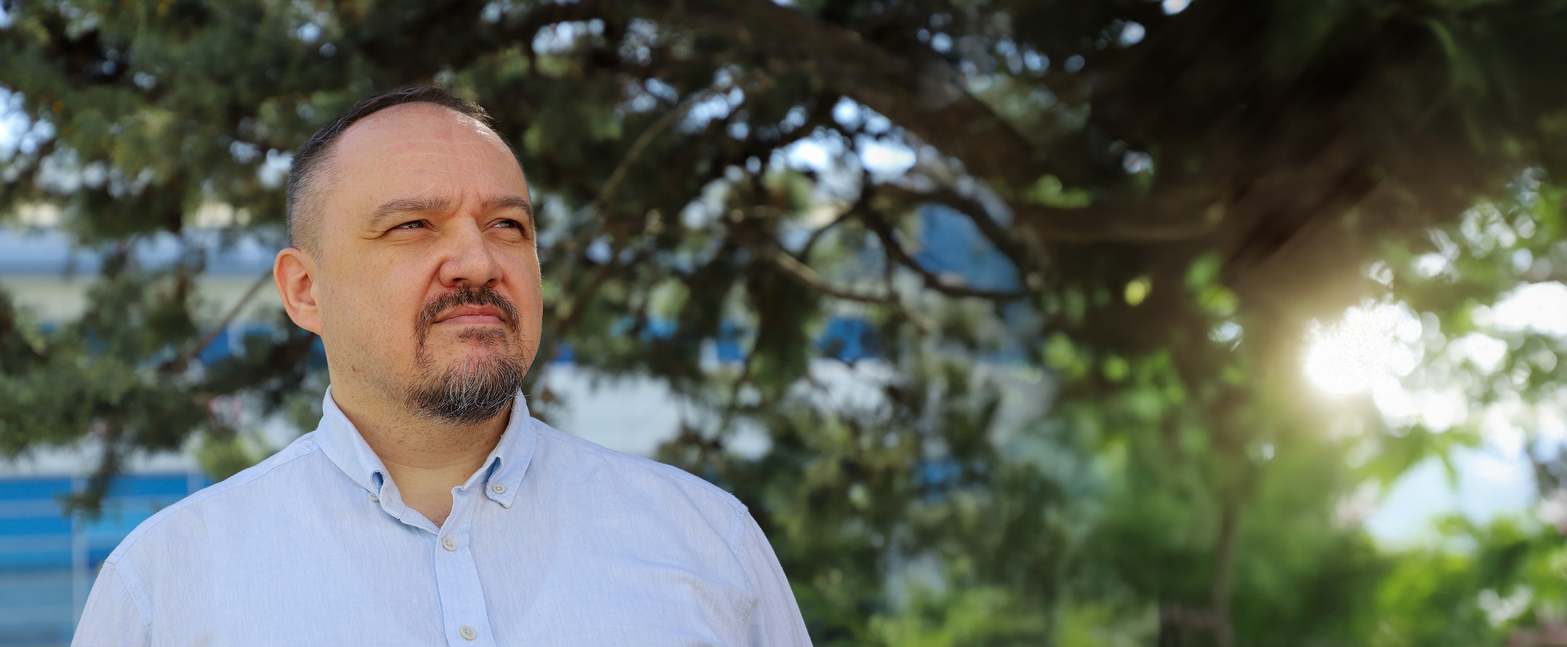
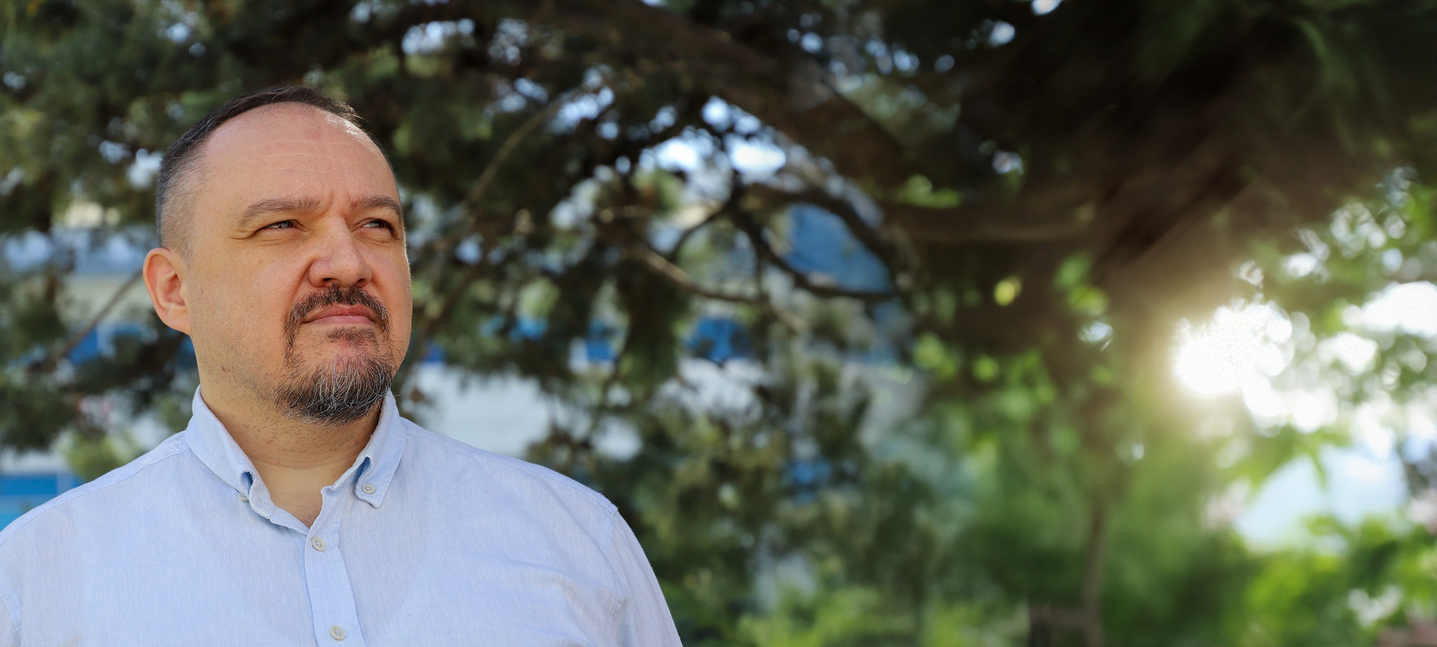
Hero: resim sol kısımdan kırpıldı (3000→2750px), CSS cover+left center geri (responsive + kafa solda)

diff --git a/belgeler.html b/belgeler.html
@@ -8,7 +8,7 @@
   <link rel="icon" type="image/png" sizes="32x32" href="assets/img/favicon-32.png?v=5">
   <link rel="icon" type="image/png" sizes="192x192" href="assets/img/favicon-192.png?v=5">
   <link rel="apple-touch-icon" sizes="180x180" href="assets/img/favicon-192.png?v=5">
-  <link rel="stylesheet" href="style.css?v=2">
+  <link rel="stylesheet" href="style.css?v=3">
 </head>
 <body class="page">
   <header class="site">

diff --git a/calismalar.html b/calismalar.html
@@ -8,7 +8,7 @@
   <link rel="icon" type="image/png" sizes="32x32" href="assets/img/favicon-32.png?v=5">
   <link rel="icon" type="image/png" sizes="192x192" href="assets/img/favicon-192.png?v=5">
   <link rel="apple-touch-icon" sizes="180x180" href="assets/img/favicon-192.png?v=5">
-  <link rel="stylesheet" href="style.css?v=2">
+  <link rel="stylesheet" href="style.css?v=3">
 </head>
 <body class="page">
   <header class="site">

diff --git a/destekci-haritasi.html b/destekci-haritasi.html
@@ -8,7 +8,7 @@
   <link rel="icon" type="image/png" sizes="32x32" href="assets/img/favicon-32.png?v=5">
   <link rel="icon" type="image/png" sizes="192x192" href="assets/img/favicon-192.png?v=5">
   <link rel="apple-touch-icon" sizes="180x180" href="assets/img/favicon-192.png?v=5">
-  <link rel="stylesheet" href="style.css?v=2">
+  <link rel="stylesheet" href="style.css?v=3">
 </head>
 <body class="page">
   <header class="site">

diff --git a/destekci-ol.html b/destekci-ol.html
@@ -8,7 +8,7 @@
   <link rel="icon" type="image/png" sizes="32x32" href="assets/img/favicon-32.png?v=5">
   <link rel="icon" type="image/png" sizes="192x192" href="assets/img/favicon-192.png?v=5">
   <link rel="apple-touch-icon" sizes="180x180" href="assets/img/favicon-192.png?v=5">
-  <link rel="stylesheet" href="style.css?v=2">
+  <link rel="stylesheet" href="style.css?v=3">
 </head>
 <body class="page">
   <header class="site">

diff --git a/hakkimda.html b/hakkimda.html
@@ -8,7 +8,7 @@
   <link rel="icon" type="image/png" sizes="32x32" href="assets/img/favicon-32.png?v=5">
   <link rel="icon" type="image/png" sizes="192x192" href="assets/img/favicon-192.png?v=5">
   <link rel="apple-touch-icon" sizes="180x180" href="assets/img/favicon-192.png?v=5">
-  <link rel="stylesheet" href="style.css?v=2">
+  <link rel="stylesheet" href="style.css?v=3">
 </head>
 <body class="page">
   <header class="site">

diff --git a/hukuki-surec.html b/hukuki-surec.html
@@ -8,7 +8,7 @@
   <link rel="icon" type="image/png" sizes="32x32" href="assets/img/favicon-32.png?v=5">
   <link rel="icon" type="image/png" sizes="192x192" href="assets/img/favicon-192.png?v=5">
   <link rel="apple-touch-icon" sizes="180x180" href="assets/img/favicon-192.png?v=5">
-  <link rel="stylesheet" href="style.css?v=2">
+  <link rel="stylesheet" href="style.css?v=3">
 </head>
 <body class="page">
   <header class="site">

diff --git a/index.html b/index.html
@@ -8,7 +8,7 @@
   <link rel="icon" type="image/png" sizes="32x32" href="assets/img/favicon-32.png?v=5">
   <link rel="icon" type="image/png" sizes="192x192" href="assets/img/favicon-192.png?v=5">
   <link rel="apple-touch-icon" sizes="180x180" href="assets/img/favicon-192.png?v=5">
-  <link rel="stylesheet" href="style.css?v=2">
+  <link rel="stylesheet" href="style.css?v=3">
 </head>
 <body class="home">
   <header class="site">

diff --git a/neden.html b/neden.html
@@ -8,7 +8,7 @@
   <link rel="icon" type="image/png" sizes="32x32" href="assets/img/favicon-32.png?v=5">
   <link rel="icon" type="image/png" sizes="192x192" href="assets/img/favicon-192.png?v=5">
   <link rel="apple-touch-icon" sizes="180x180" href="assets/img/favicon-192.png?v=5">
-  <link rel="stylesheet" href="style.css?v=2">
+  <link rel="stylesheet" href="style.css?v=3">
 </head>
 <body class="page">
   <header class="site">

diff --git a/sarkilar.html b/sarkilar.html
@@ -8,7 +8,7 @@
   <link rel="icon" type="image/png" sizes="32x32" href="assets/img/favicon-32.png?v=5">
   <link rel="icon" type="image/png" sizes="192x192" href="assets/img/favicon-192.png?v=5">
   <link rel="apple-touch-icon" sizes="180x180" href="assets/img/favicon-192.png?v=5">
-  <link rel="stylesheet" href="style.css?v=2">
+  <link rel="stylesheet" href="style.css?v=3">
 </head>
 <body class="page">
   <header class="site">

diff --git a/tersine-beyin-gocu.html b/tersine-beyin-gocu.html
@@ -8,7 +8,7 @@
   <link rel="icon" type="image/png" sizes="32x32" href="assets/img/favicon-32.png?v=5">
   <link rel="icon" type="image/png" sizes="192x192" href="assets/img/favicon-192.png?v=5">
   <link rel="apple-touch-icon" sizes="180x180" href="assets/img/favicon-192.png?v=5">
-  <link rel="stylesheet" href="style.css?v=2">
+  <link rel="stylesheet" href="style.css?v=3">
 </head>
 <body class="page">
   <header class="site">

diff --git a/vizyon.html b/vizyon.html
@@ -8,7 +8,7 @@
   <link rel="icon" type="image/png" sizes="32x32" href="assets/img/favicon-32.png?v=5">
   <link rel="icon" type="image/png" sizes="192x192" href="assets/img/favicon-192.png?v=5">
   <link rel="apple-touch-icon" sizes="180x180" href="assets/img/favicon-192.png?v=5">
-  <link rel="stylesheet" href="style.css?v=2">
+  <link rel="stylesheet" href="style.css?v=3">
 </head>
 <body class="page">
   <header class="site">

diff --git a/yanimdakiler.html b/yanimdakiler.html
@@ -8,7 +8,7 @@
   <link rel="icon" type="image/png" sizes="32x32" href="assets/img/favicon-32.png?v=5">
   <link rel="icon" type="image/png" sizes="192x192" href="assets/img/favicon-192.png?v=5">
   <link rel="apple-touch-icon" sizes="180x180" href="assets/img/favicon-192.png?v=5">
-  <link rel="stylesheet" href="style.css?v=2">
+  <link rel="stylesheet" href="style.css?v=3">
 </head>
 <body class="page">
   <header class="site">
